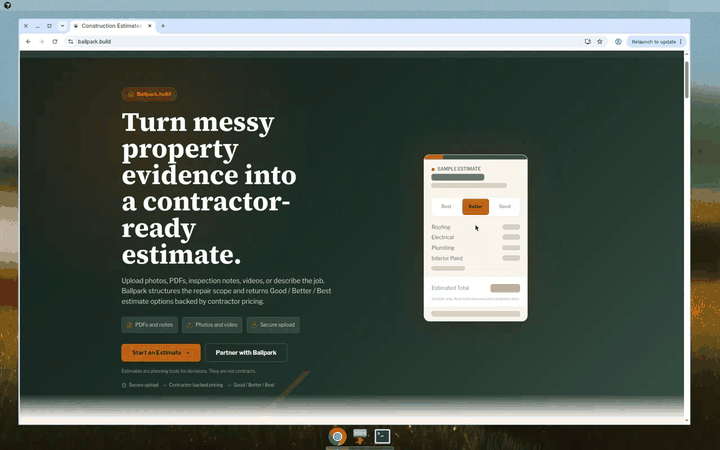
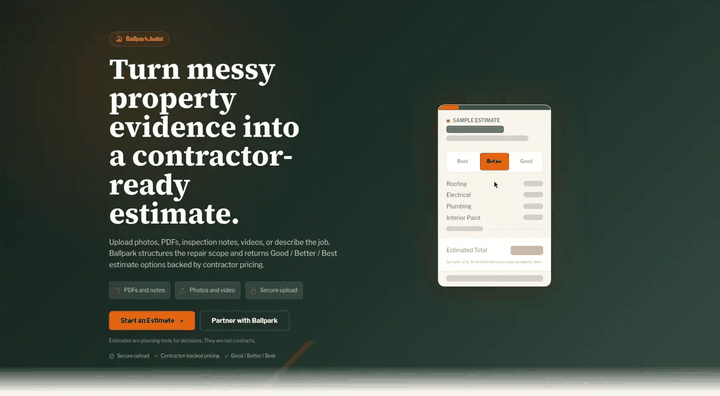
fix(ballpark): crop browser chrome and correct image caption
Regenerate responsive assets from a lossless cropped master, preserve existing redactions, and enforce truthful captions and metadata-free images.

Closes #26

diff --git a/index.html b/index.html
@@ -122,10 +122,10 @@
       </div>
       <figure class="product-image">
         <picture>
-          <source type="image/webp" srcset="/assets/ballpark-estimate-360.webp 360w, /assets/ballpark-estimate-480.webp 480w, /assets/ballpark-estimate-600.webp 600w, /assets/ballpark-estimate-720.webp 720w, /assets/ballpark-estimate-960.webp 960w, /assets/ballpark-estimate-1200.webp 1200w, /assets/ballpark-estimate-1280.webp 1280w" sizes="(max-width: 520px) calc(100vw - 112px), (max-width: 700px) calc(100vw - 120px), (max-width: 900px) min(600px, calc(100vw - 160px)), (max-width: 1240px) calc(47.5vw - 120px), (max-width: 1280px) calc(500px - 2.5vw), 468px">
-          <img src="/assets/ballpark-estimate-600.png" srcset="/assets/ballpark-estimate-360.png 360w, /assets/ballpark-estimate-480.png 480w, /assets/ballpark-estimate-600.png 600w, /assets/ballpark-estimate-720.png 720w, /assets/ballpark-estimate-960.png 960w, /assets/ballpark-estimate-1200.png 1200w, /assets/ballpark-estimate-1280.png 1280w" sizes="(max-width: 520px) calc(100vw - 112px), (max-width: 700px) calc(100vw - 120px), (max-width: 900px) min(600px, calc(100vw - 160px)), (max-width: 1240px) calc(47.5vw - 120px), (max-width: 1280px) calc(500px - 2.5vw), 468px" width="1280" height="800" loading="lazy" decoding="async" alt="Ballpark estimate interface showing a kitchen remodel with Good, Better, and Best pricing tiers.">
+          <source type="image/webp" srcset="/assets/ballpark-estimate-360.webp 360w, /assets/ballpark-estimate-480.webp 480w, /assets/ballpark-estimate-600.webp 600w, /assets/ballpark-estimate-720.webp 720w, /assets/ballpark-estimate-960.webp 960w, /assets/ballpark-estimate-1176.webp 1176w" sizes="(max-width: 520px) calc(100vw - 112px), (max-width: 700px) calc(100vw - 120px), (max-width: 900px) min(600px, calc(100vw - 160px)), (max-width: 1240px) calc(47.5vw - 120px), (max-width: 1280px) calc(500px - 2.5vw), 468px">
+          <img src="/assets/ballpark-estimate-600.png" srcset="/assets/ballpark-estimate-360.png 360w, /assets/ballpark-estimate-480.png 480w, /assets/ballpark-estimate-600.png 600w, /assets/ballpark-estimate-720.png 720w, /assets/ballpark-estimate-960.png 960w, /assets/ballpark-estimate-1176.png 1176w" sizes="(max-width: 520px) calc(100vw - 112px), (max-width: 700px) calc(100vw - 120px), (max-width: 900px) min(600px, calc(100vw - 160px)), (max-width: 1240px) calc(47.5vw - 120px), (max-width: 1280px) calc(500px - 2.5vw), 468px" width="1176" height="646" loading="lazy" decoding="async" alt="Ballpark.build home page with the headline 'Turn messy property evidence into a contractor-ready estimate' and a sample estimate card showing Good, Better and Best tiers, with customer details blocked out.">
         </picture>
-        <figcaption>Owner-authorized sanitized demo estimate. No personal data or customer information.</figcaption>
+        <figcaption>Real estimate, customer details redacted.</figcaption>
       </figure>
     </div>
   </aside>

diff --git a/work/index.html b/work/index.html
@@ -76,10 +76,10 @@
     </div>
     <figure class="work-image">
       <picture>
-        <source type="image/webp" srcset="/assets/ballpark-estimate-360.webp 360w, /assets/ballpark-estimate-480.webp 480w, /assets/ballpark-estimate-600.webp 600w, /assets/ballpark-estimate-720.webp 720w, /assets/ballpark-estimate-960.webp 960w, /assets/ballpark-estimate-1200.webp 1200w, /assets/ballpark-estimate-1280.webp 1280w" sizes="(max-width: 520px) calc(100vw - 34px), (max-width: 700px) calc(100vw - 42px), (max-width: 1240px) calc(100vw - 82px), 1158px">
-        <img src="/assets/ballpark-estimate-600.png" srcset="/assets/ballpark-estimate-360.png 360w, /assets/ballpark-estimate-480.png 480w, /assets/ballpark-estimate-600.png 600w, /assets/ballpark-estimate-720.png 720w, /assets/ballpark-estimate-960.png 960w, /assets/ballpark-estimate-1200.png 1200w, /assets/ballpark-estimate-1280.png 1280w" sizes="(max-width: 520px) calc(100vw - 34px), (max-width: 700px) calc(100vw - 42px), (max-width: 1240px) calc(100vw - 82px), 1158px" width="1280" height="800" decoding="async" alt="Ballpark estimate interface showing a kitchen remodel with Good, Better, and Best pricing tiers.">
+        <source type="image/webp" srcset="/assets/ballpark-estimate-360.webp 360w, /assets/ballpark-estimate-480.webp 480w, /assets/ballpark-estimate-600.webp 600w, /assets/ballpark-estimate-720.webp 720w, /assets/ballpark-estimate-960.webp 960w, /assets/ballpark-estimate-1176.webp 1176w" sizes="(max-width: 520px) calc(100vw - 34px), (max-width: 700px) calc(100vw - 42px), (max-width: 1240px) calc(100vw - 82px), 1158px">
+        <img src="/assets/ballpark-estimate-600.png" srcset="/assets/ballpark-estimate-360.png 360w, /assets/ballpark-estimate-480.png 480w, /assets/ballpark-estimate-600.png 600w, /assets/ballpark-estimate-720.png 720w, /assets/ballpark-estimate-960.png 960w, /assets/ballpark-estimate-1176.png 1176w" sizes="(max-width: 520px) calc(100vw - 34px), (max-width: 700px) calc(100vw - 42px), (max-width: 1240px) calc(100vw - 82px), 1158px" width="1176" height="646" decoding="async" alt="Ballpark.build home page with the headline 'Turn messy property evidence into a contractor-ready estimate' and a sample estimate card showing Good, Better and Best tiers, with customer details blocked out.">
       </picture>
-      <figcaption>Owner-authorized sanitized demo estimate. No personal data or customer information.</figcaption>
+      <figcaption>Real estimate, customer details redacted.</figcaption>
     </figure>
   </article>
 

diff --git a/tests/test_site.py b/tests/test_site.py
@@ -479,7 +479,7 @@ class ResponsiveImageTests(unittest.TestCase):
     def test_variants_exist_and_are_referenced(self):
         expected = {
             "portrait-nick": ("jpg", [160, 200, 320, 348, 400, 636]),
-            "ballpark-estimate": ("png", [360, 480, 600, 720, 960, 1200, 1280]),
+            "ballpark-estimate": ("png", [360, 480, 600, 720, 960, 1176]),
         }
         for page, names in (("home", list(expected)), ("work", ["ballpark-estimate"])):
             pictures = re.findall(r"<picture>.*?</picture>", _read_page(page), re.S)
@@ -508,26 +508,53 @@ class ResponsiveImageTests(unittest.TestCase):
                 ])
                 self.assertTrue(fallback["alt"])
                 self.assertEqual((fallback["width"], fallback["height"]),
-                                 ("636", "954") if name == "portrait-nick" else ("1280", "800"))
+                                 ("636", "954") if name == "portrait-nick" else ("1176", "646"))
                 self.assertEqual(fallback.get("loading"),
                                  "lazy" if page == "home" and name == "ballpark-estimate" else None)
 
     def test_ballpark_variants_match_master_ratio_and_carry_no_metadata(self):
         """Every Ballpark size is regenerated from one master (#26)."""
         master_w, master_h = _image_size(_path("assets/ballpark-estimate.png"))
-        self.assertEqual((master_w, master_h), (1280, 800))
-        for width in (360, 480, 600, 720, 960, 1200, 1280):
+        self.assertEqual((master_w, master_h), (1176, 646))
+        master_chunks = _image_chunks(_path("assets/ballpark-estimate.png"))
+        self.assertIn("IHDR", master_chunks, "master must be a real lossless PNG")
+        self.assertEqual(master_chunks["IHDR"][8:10], b"\x08\x02", "master must retain RGB pixels")
+        widths = (360, 480, 600, 720, 960, master_w)
+        expected_files = {_path("assets/ballpark-estimate.png")}
+        for width in widths:
             for ext in ("png", "webp"):
                 path = _path("assets/ballpark-estimate-%d.%s" % (width, ext))
+                expected_files.add(path)
                 with self.subTest(file=os.path.basename(path)):
                     w, h = _image_size(path)
                     self.assertEqual(w, width)
-                    self.assertEqual(w * master_h, h * master_w)
+                    self.assertLessEqual(w, master_w, "variants must not upscale")
+                    self.assertEqual(h, round(w * master_h / master_w))
+        self.assertEqual(set(glob.glob(_path("assets/ballpark-estimate*"))), expected_files)
         for path in sorted(glob.glob(_path("assets/ballpark-estimate*"))):
             with self.subTest(file=os.path.basename(path)):
-                self.assertFalse(
-                    set(_image_chunks(path)) & {"eXIf", "tEXt", "iTXt", "zTXt", "EXIF", "XMP "},
+                self.assertLessEqual(
+                    set(_image_chunks(path)),
+                    {"IHDR", "PLTE", "IDAT", "IEND", "tRNS", "VP8 ", "VP8L", "VP8X", "ALPH"},
                     "%s carries metadata" % path,
+                )
+
+    def test_ballpark_caption_and_alt_describe_the_redacted_image(self):
+        for page in ("home", "work"):
+            with self.subTest(page=page):
+                figure = next(block for block in re.findall(
+                    r"<figure\b.*?</figure>", _read_page(page), re.S
+                ) if "ballpark-estimate" in block)
+                caption = re.search(r"<figcaption>(.*?)</figcaption>", figure, re.S).group(1)
+                self.assertEqual(caption, "Real estimate, customer details redacted.")
+                self.assertNotIn("sanitized", caption.lower())
+                self.assertNotIn("no personal data", caption.lower())
+                alt = re.search(r'\balt="([^"]*)"', figure).group(1)
+                self.assertEqual(
+                    alt,
+                    "Ballpark.build home page with the headline 'Turn messy property evidence "
+                    "into a contractor-ready estimate' and a sample estimate card showing Good, "
+                    "Better and Best tiers, with customer details blocked out.",
                 )
 
 

diff --git a/README.md b/README.md
@@ -44,7 +44,7 @@ Open `http://127.0.0.1:8791/`, `http://127.0.0.1:8791/career/`,
 | `media/index.html` | Earlier media archive (seven incumbent podcast appearances) |
 | `styles.css` | Cream/forest/rust editorial design system |
 | `assets/portrait-nick.jpg` | Hero portrait |
-| `assets/ballpark-estimate.png` | Ballpark estimate screenshot |
+| `assets/ballpark-estimate.png` | Cropped Ballpark.build page, customer details redacted; lossless 1176×646 PNG master. Responsive PNG/WebP widths: 360, 480, 600, 720, 960, 1176. |
 | `assets/nick-giulioni-resume.pdf` | Downloadable resume (PDF) |
 | `vercel.json` | Security headers (CSP allows Google Fonts) |
 
